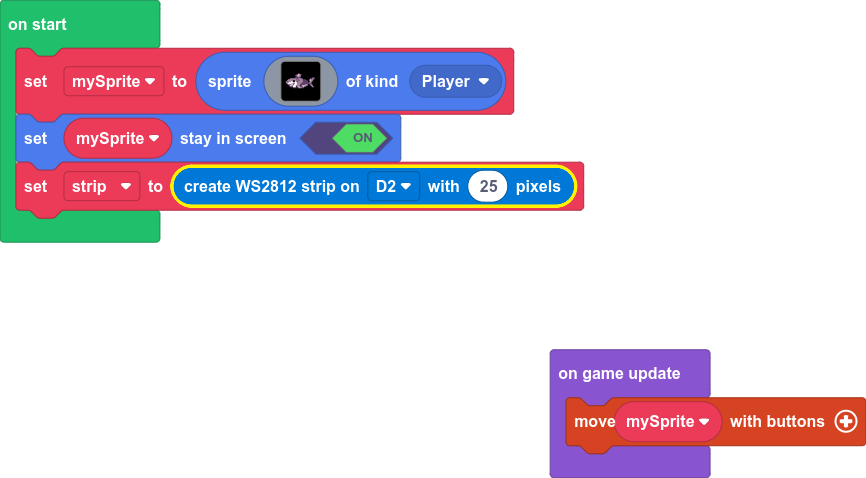
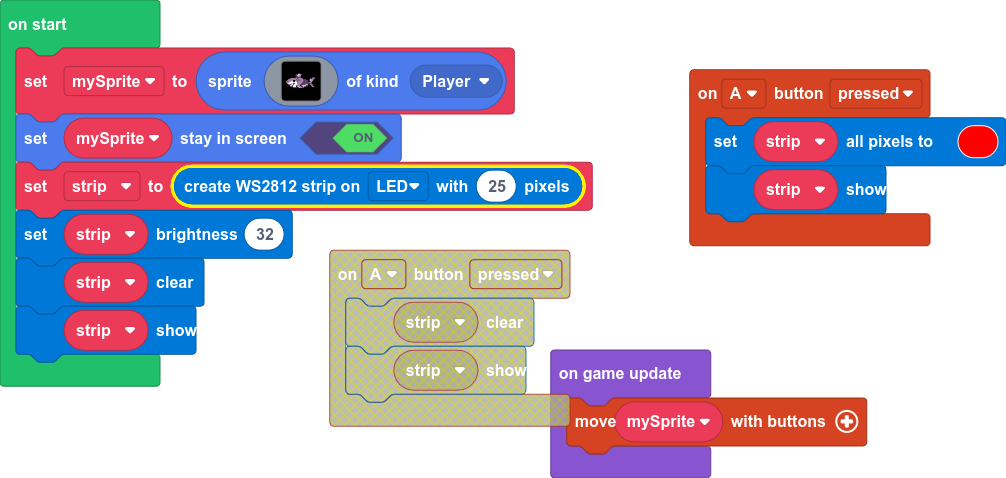
not work

diff --git a/main.ts b/main.ts
@@ -1,3 +1,8 @@
+controller.A.onEvent(ControllerButtonEvent.Pressed, function () {
+    strip.setAll(0xff0000)
+    strip.show()
+})
+let strip: light.NeoPixelStrip = null
 let mySprite = sprites.create(img`
     .............ccfff..............
     ...........ccddbcf..............
@@ -17,7 +22,10 @@ let mySprite = sprites.create(img`
     .............fffff..............
     `, SpriteKind.Player)
 mySprite.setStayInScreen(true)
-let strip = light.createStrip(pins.D2, 25)
+strip = light.createStrip(pins.LED, 25)
+strip.setBrightness(32)
+strip.clear()
+strip.show()
 game.onUpdate(function () {
     controller.moveSprite(mySprite)
 })
